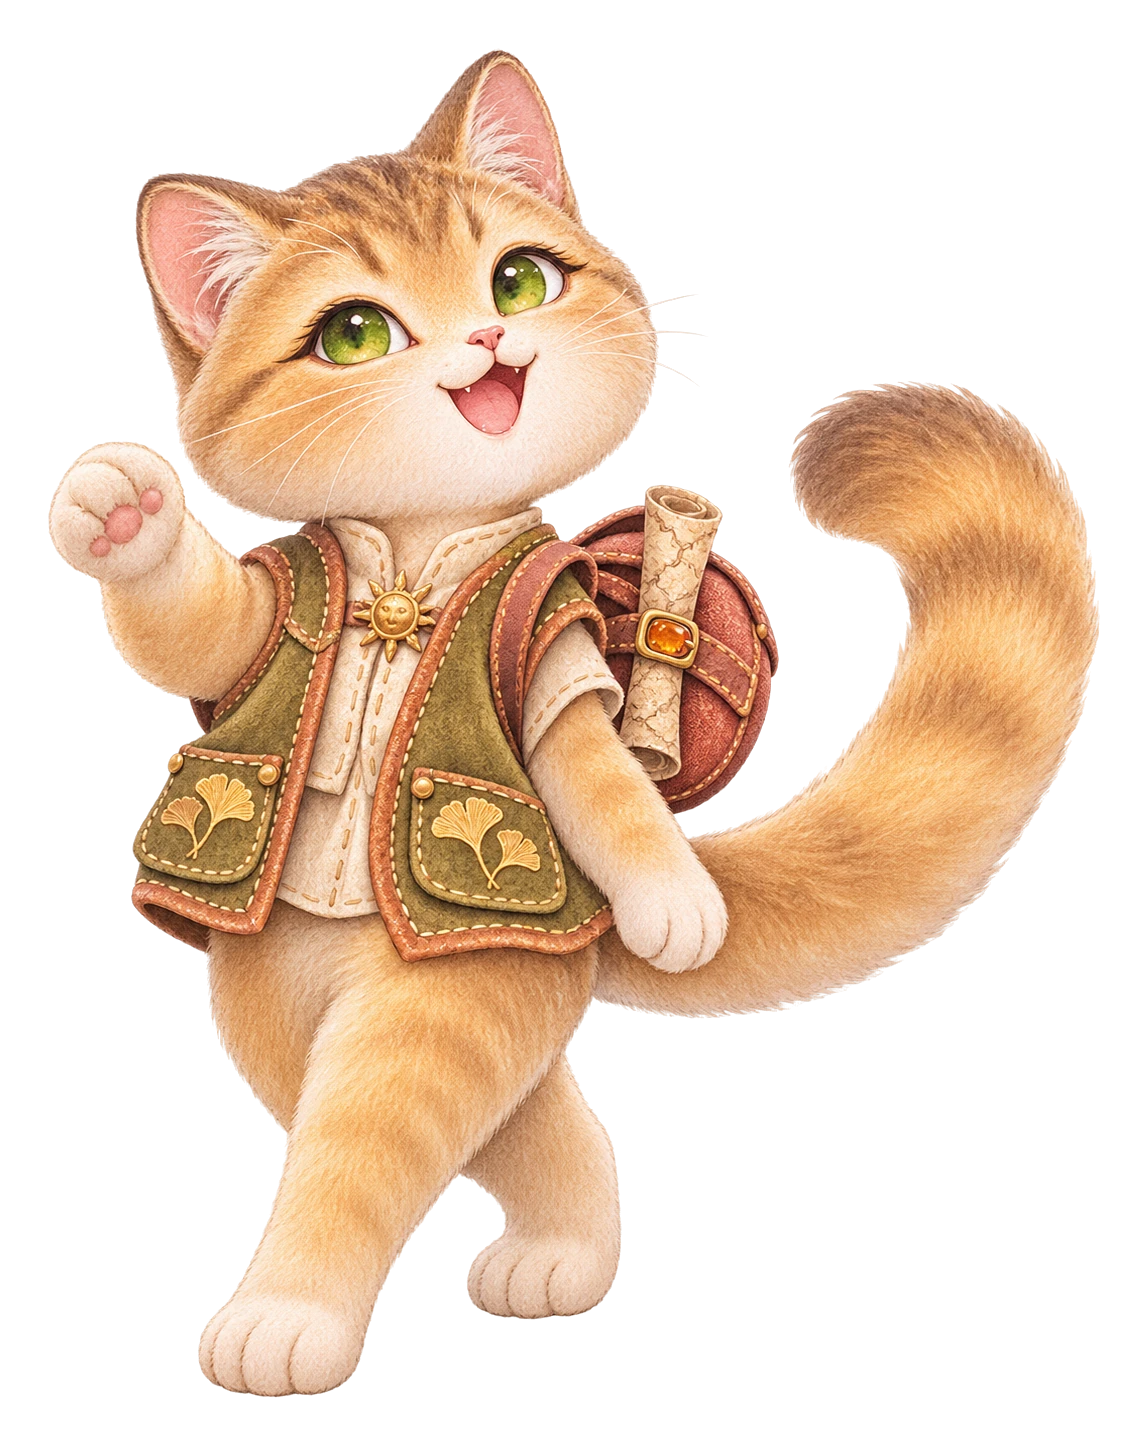
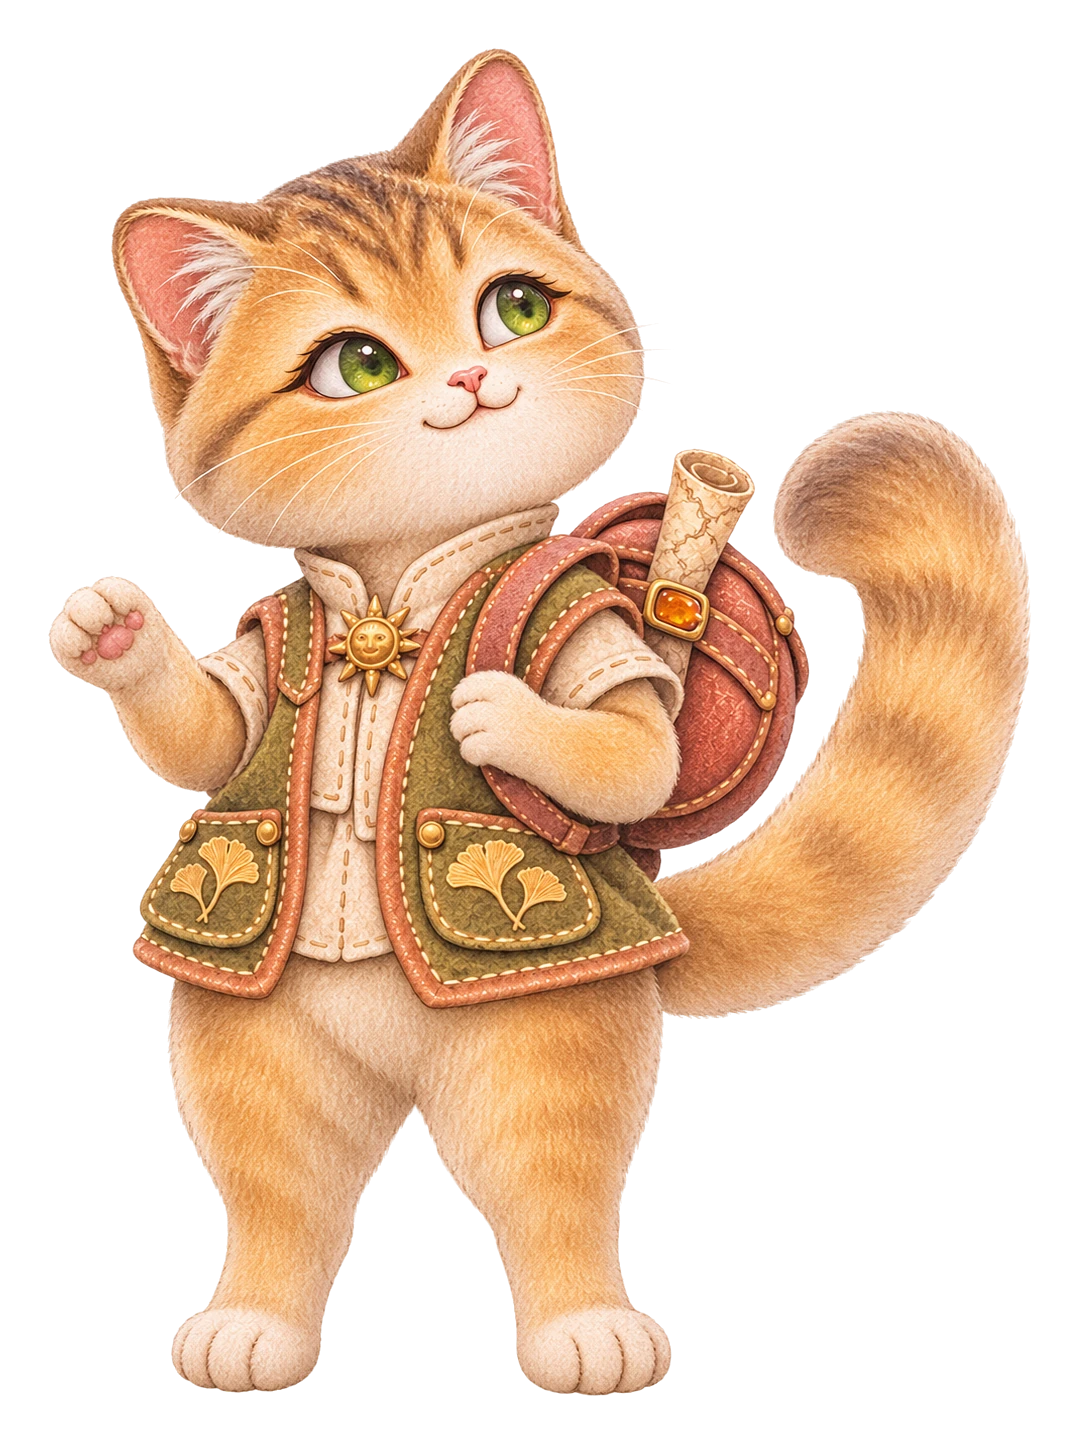
Integrate revised golden protagonist art and targeted decode repaint fix

diff --git a/public/cat-bond/js/real-kittens.js b/public/cat-bond/js/real-kittens.js
@@ -82,8 +82,8 @@
   };
   const breedCache=Object.create(null);
   const framedBreedCache=Object.create(null);
-  const starterFrames=new Map(),starterImages=new Map();
-  for(const id of ['jinjc','yunduo']){const image=new Image();starterImages.set(id,image);image.onload=()=>{delete breedCache[id];for(const key of Object.keys(animatedRigCache))if(key.includes(':'+id+':'))delete animatedRigCache[key];replayPortraits();};image.src=id==='jinjc'?'/cat-bond/assets/core-art-remaster/leads/player.webp':'/cat-bond/assets/starter-portraits/'+id+'.webp';}
+  const starterFrames=new Map(),starterImages=new Map(),playerPortraits=new Map();
+  for(const id of ['jinjc','yunduo']){const image=new Image();starterImages.set(id,image);image.onload=()=>{delete breedCache[id];for(const key of Object.keys(animatedRigCache))if(key.includes(':'+id+':'))delete animatedRigCache[key];replayPortraits();if(id==='jinjc'){for(const [canvas,species] of playerPortraits){if(canvas.isConnected!==false)thumbnail(canvas,species);}playerPortraits.clear();}};if(id==='jinjc')image.onerror=()=>playerPortraits.clear();image.src=id==='jinjc'?'/cat-bond/assets/core-art-remaster/leads/player.webp':'/cat-bond/assets/starter-portraits/'+id+'.webp';}
   function starterFrame(id){const im=starterImages.get(id);if(!im?.complete||!im.naturalWidth)return null;if(starterFrames.has(id))return starterFrames.get(id);const c=document.createElement('canvas');c.width=breedFrameSize.w;c.height=breedFrameSize.h;const ctx=c.getContext('2d'),s=Math.min(c.width/im.naturalWidth,c.height/im.naturalHeight);ctx.drawImage(im,(c.width-im.naturalWidth*s)/2,c.height-im.naturalHeight*s,im.naturalWidth*s,im.naturalHeight*s);starterFrames.set(id,c);return c;}
   const animatedRigCache=Object.create(null);
   // Never mirror a half-cat. Every source contains a whole face, paws and tail.
@@ -221,8 +221,9 @@
   }
   function breedFrame(o){
     const species=o.species||{},id=species.id||'tangyuan';
-    if(!breedLoaded)return {image:source,sx:0,sy:0,sw:w,sh:h};
+    if(id!=='jinjc'&&!breedLoaded)return {image:source,sx:0,sy:0,sw:w,sh:h};
     const starter=starterFrame(id);if(starter)return {image:starter,sx:0,sy:0,sw:starter.width,sh:starter.height};
+    if(!breedLoaded)return {image:source,sx:0,sy:0,sw:w,sh:h};
     if(breedCache[id])return {image:breedCache[id],sx:0,sy:0,sw:breedFrameSize.w,sh:breedFrameSize.h};
     const [base,tone,strength,kind]=BREED_LOOKS[id]||BREED_LOOKS.tangyuan;
     const canvas=document.createElement('canvas');
@@ -355,7 +356,8 @@
     }
     // An image draws as soon as its first frame has decoded. On older browsers
     // without AVIF decoding, preserve playability with the legacy renderer.
-    if(!loaded&&!breedLoaded)return;
+    const playerReady=o.species?.id==='jinjc'&&!!starterFrame('jinjc');
+    if(!loaded&&!breedLoaded&&!playerReady)return;
     const gr=o.growth||null;
     const scale=(o.scale||1)*(gr?.scale||1);
     const face=o.face===-1?-1:1;
@@ -411,7 +413,7 @@
     // Preserve its painted proportions instead of squeezing a whole cat into
     // the old, narrow half-cat rectangle. Keep feet planted at +35 and limit
     // the width so mobile garden/battle cats are still compact.
-    const dest=breedLoaded?(()=>{
+    const dest=(breedLoaded||playerReady)?(()=>{
       const width=Math.min(81,originalDest[2]*1.22);
       const height=width*(art.sh/art.sw);
       const feetY=originalDest[1]+originalDest[3];
@@ -455,6 +457,7 @@
     });
     if(species?.storyArt&&!storyImage(species).naturalWidth)storyPortraits.set(canvas,species);
     if(species?.id==='jiafei'&&!jiafeiLoaded)jiafeiPortraits.set(canvas,species);
+    if(species?.id==='jinjc'&&!starterFrame('jinjc'))playerPortraits.set(canvas,species);
     if(!breedLoaded)pendingPortraits.set(canvas,species);
   }
   drawing.drawCat=render;
